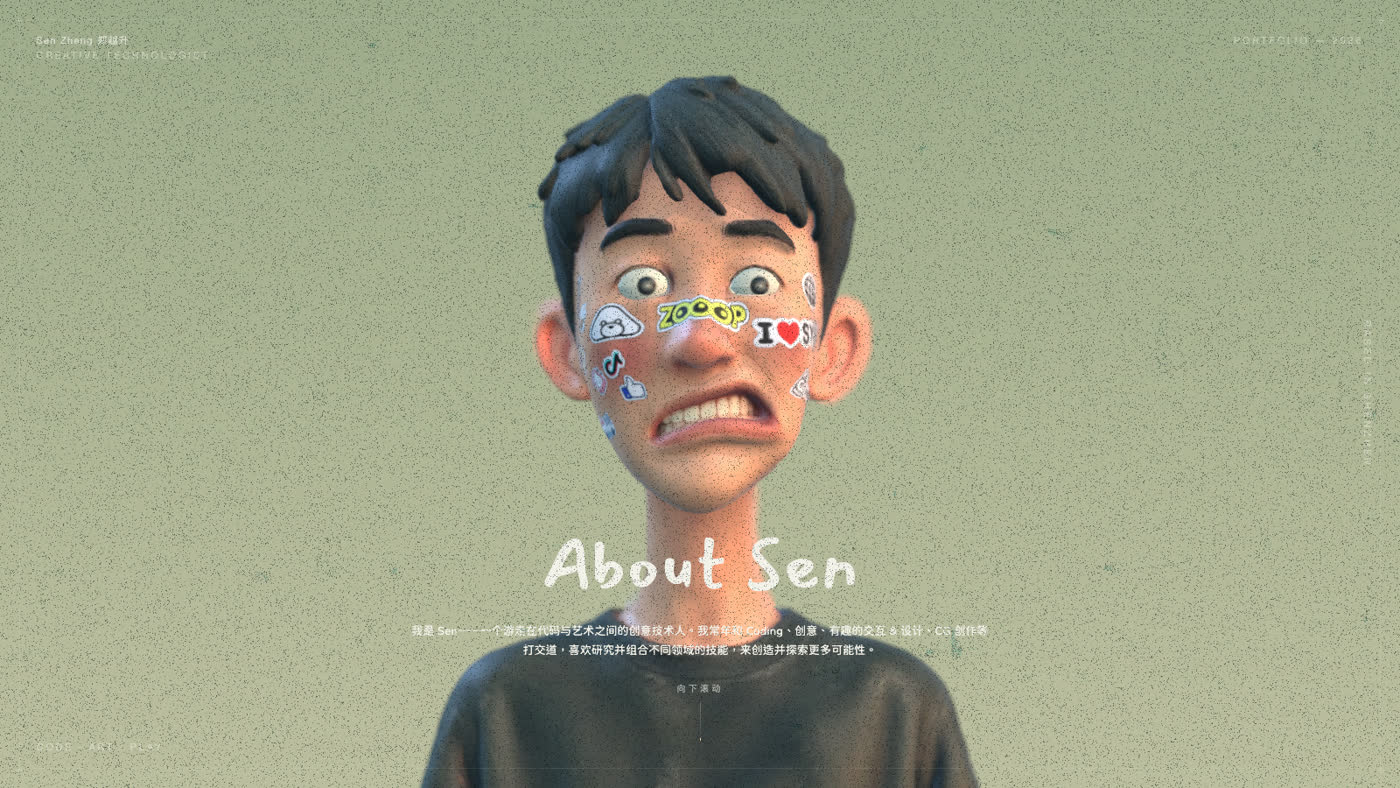
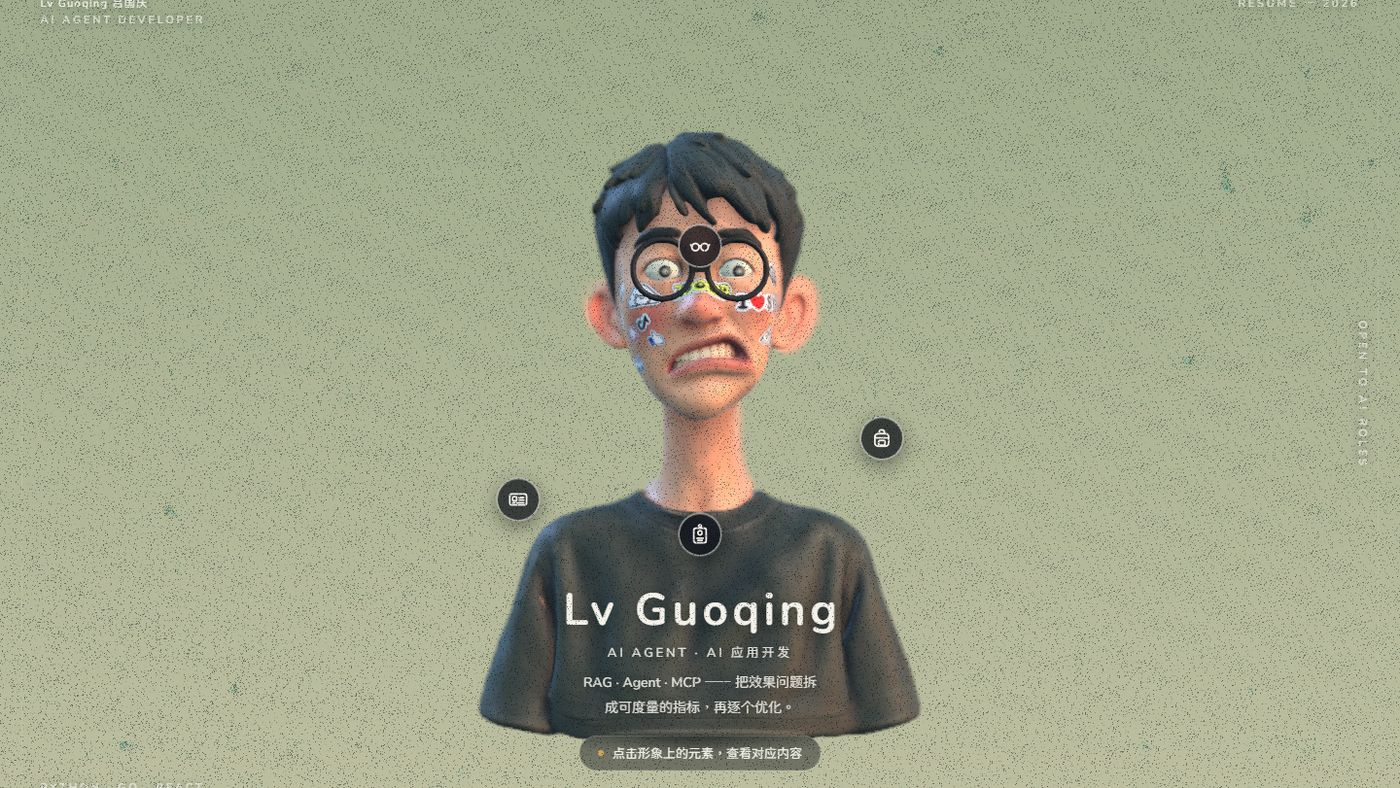
chore: 清掉上游作者残留素材，NOTICE 改准
删除（均为上游作者 Sen Zheng 的品牌/作品素材）
- web/public/images/hotsar.jpg —— 曾被当作站点 favicon，是上游客户的品牌 logo
- web/public/images/bp.png、buzyzheng.png —— 未被任何代码引用
- web/public/works/covers/*.jpg —— 上游板块封面；SECTION_COVERS 是空对象，实际未被引用

新增 / 替换
- web/public/images/favicon.svg + favicon.png —— 深色方块 + Lv 的占位图标
  （配色取 index.html 的 theme-color #0a0e16），index.html 两处引用同步改掉
- web/public/og.jpg —— 原图是上游站点截图（画面上写着 About Sen / Sen Zheng 郑越升），
  这是分享卡片图，换成本人站点总览截图（1400x788，与 meta 声明一致）
- index.html 的 og:image:alt 改为「人物形象与四个可点击热点」（原文案提到上游的 About 区）

NOTICE
- 原文件说个人内容归 Sen Zheng，与现状不符（本人内容已替换）；
  且它没提 me.glb / sen.blend 其实还是上游模型。改为三层说明：
  代码 MIT（上游 © Sen Zheng / 本项目新增 © 吕国庆）、本人个人内容、尚未替换的上游素材。

diff --git a/web/index.html b/web/index.html
@@ -18,9 +18,10 @@
     <!-- 站点图标。这里用相对路径 ./ 而不是 /：
          本项目 vite base 为 './'，./ 始终指向页面同级目录，部署到子路径
          （如 example.com/portfolio/）时也不会失效。
-         当前用的是仓库自带的闲置素材占位，替换成自己的图即可（建议 512×512 方图）。 -->
-    <link rel="icon" type="image/jpeg" href="./images/hotsar.jpg" />
-    <link rel="apple-touch-icon" href="./images/hotsar.jpg" />
+         favicon.svg 给现代浏览器（矢量、任意尺寸都清晰），favicon.png 是
+         iOS 加到主屏时用的位图（建议 512×512 方图）。换成自己的图时替换这两个文件即可。 -->
+    <link rel="icon" type="image/svg+xml" href="./images/favicon.svg" />
+    <link rel="apple-touch-icon" href="./images/favicon.png" />
 
     <!-- ==========================================================================
          分享卡片 meta（微信 / QQ / 微博 / Twitter 抓取的就是这几行）
@@ -51,7 +52,7 @@
     <meta property="og:image" content="https://example.com/og.jpg" />
     <meta property="og:image:width" content="1400" />
     <meta property="og:image:height" content="788" />
-    <meta property="og:image:alt" content="3D 简历首屏：人物模型与 About 文案" />
+    <meta property="og:image:alt" content="3D 简历总览：人物形象与四个可点击热点" />
 
     <!-- Twitter / X 卡片（部分国内平台也会读取这几项） -->
     <meta name="twitter:card" content="summary_large_image" />
